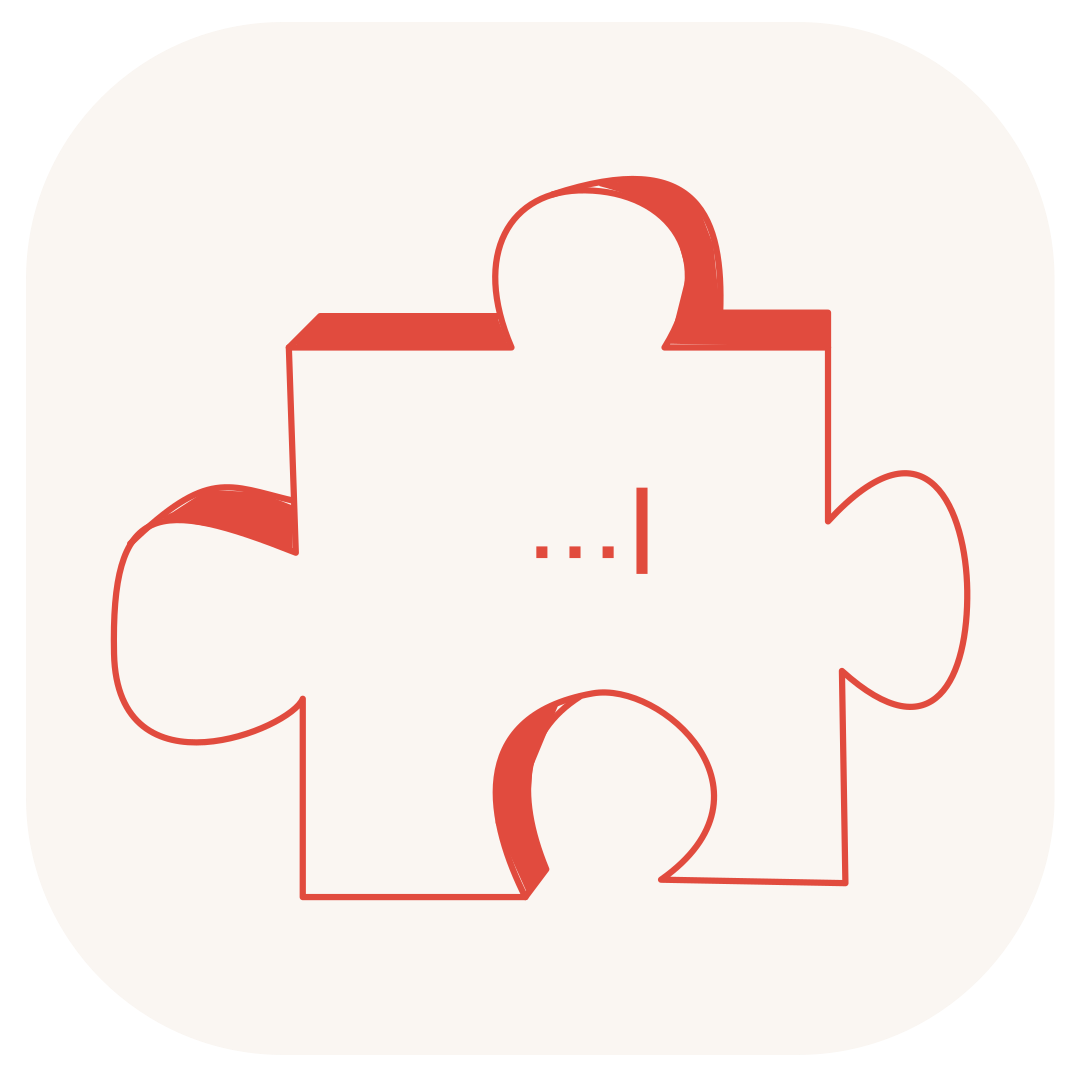
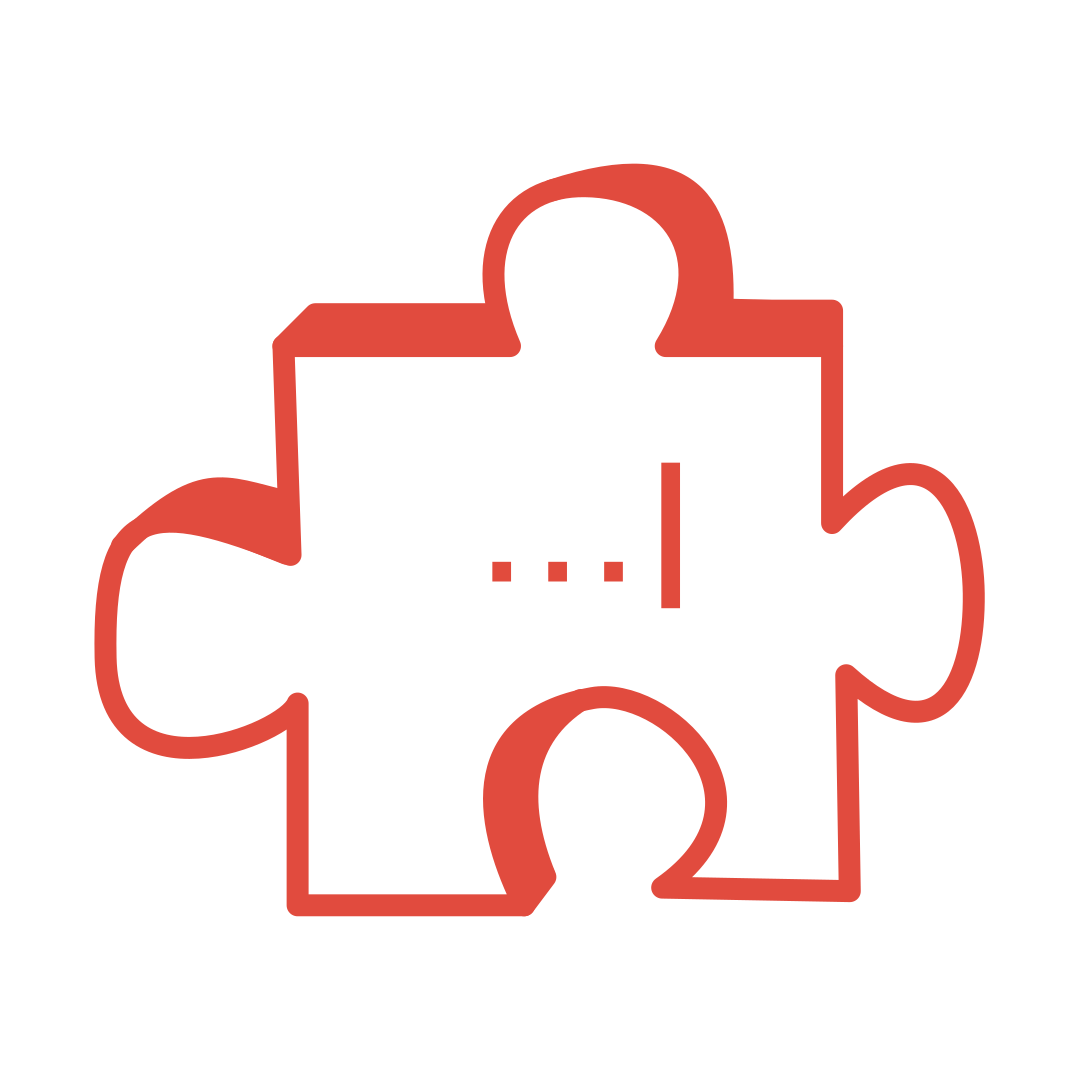
save

Changed region(s): [[0.0611, 0.1528, 0.9167, 0.8556], [0.4583, 0.4278, 0.6417, 0.5806]]

diff --git a/apps/web/components/app/bureau-logo.tsx b/apps/web/components/app/bureau-logo.tsx
@@ -1,11 +1,12 @@
 "use client";
 
 /**
- * Theme-aware Bureau wordmark logo.
+ * Bureau wordmark logo.
  *
- * The two assets are the puzzle-piece mark provided by the user:
- *  - bureau-logo-light.png: dark puzzle on transparent, for light mode.
- *  - bureau-logo-dark.png: light puzzle on transparent, for dark mode.
+ * Single red puzzle mark on transparent background (rgb 225,75,62).
+ * Reads well on both light and dark surfaces, so one asset serves all themes.
+ * The `forceTheme` prop is kept for call-site compatibility but no longer
+ * changes the rendered asset.
  */
 export function BureauLogo({
   size = 22,
@@ -16,53 +17,18 @@ export function BureauLogo({
   size?: number;
   alt?: string;
   className?: string;
-  /** Force the logo asset for a given surface, ignoring page theme. */
+  /** Kept for backwards compatibility; no longer changes the asset. */
   forceTheme?: "light" | "dark";
 }) {
-  if (forceTheme === "dark") {
-    return (
-      <span className={className} style={{ width: size, height: size, display: "inline-flex" }}>
-        {/* eslint-disable-next-line @next/next/no-img-element */}
-        <img
-          src="/brand/bureau-logo-dark-512.png"
-          alt={alt}
-          draggable={false}
-          className="block select-none"
-          style={{ width: size, height: size, maxWidth: "none", flexShrink: 0 }}
-        />
-      </span>
-    );
-  }
-  if (forceTheme === "light") {
-    return (
-      <span className={className} style={{ width: size, height: size, display: "inline-flex" }}>
-        {/* eslint-disable-next-line @next/next/no-img-element */}
-        <img
-          src="/brand/bureau-logo-light-512.png"
-          alt={alt}
-          draggable={false}
-          className="block select-none"
-          style={{ width: size, height: size, maxWidth: "none", flexShrink: 0 }}
-        />
-      </span>
-    );
-  }
+  void forceTheme;
   return (
     <span className={className} style={{ width: size, height: size, display: "inline-flex" }}>
       {/* eslint-disable-next-line @next/next/no-img-element */}
       <img
-        src="/brand/bureau-logo-light-512.png"
+        src="/brand/bureau-logo.svg"
         alt={alt}
         draggable={false}
-        className="block select-none dark:hidden"
-        style={{ width: size, height: size, maxWidth: "none", flexShrink: 0 }}
-      />
-      {/* eslint-disable-next-line @next/next/no-img-element */}
-      <img
-        src="/brand/bureau-logo-dark-512.png"
-        alt={alt}
-        draggable={false}
-        className="hidden select-none dark:block"
+        className="block select-none"
         style={{ width: size, height: size, maxWidth: "none", flexShrink: 0 }}
       />
     </span>
